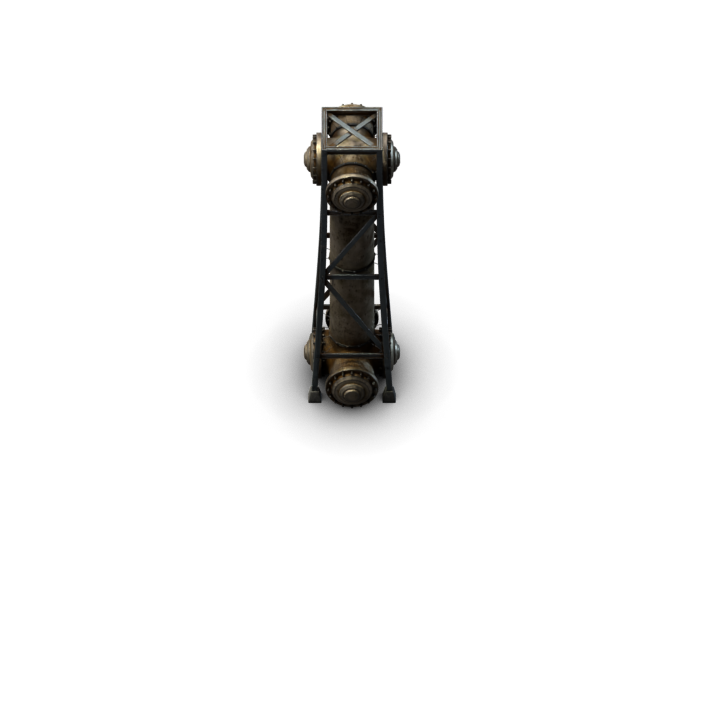
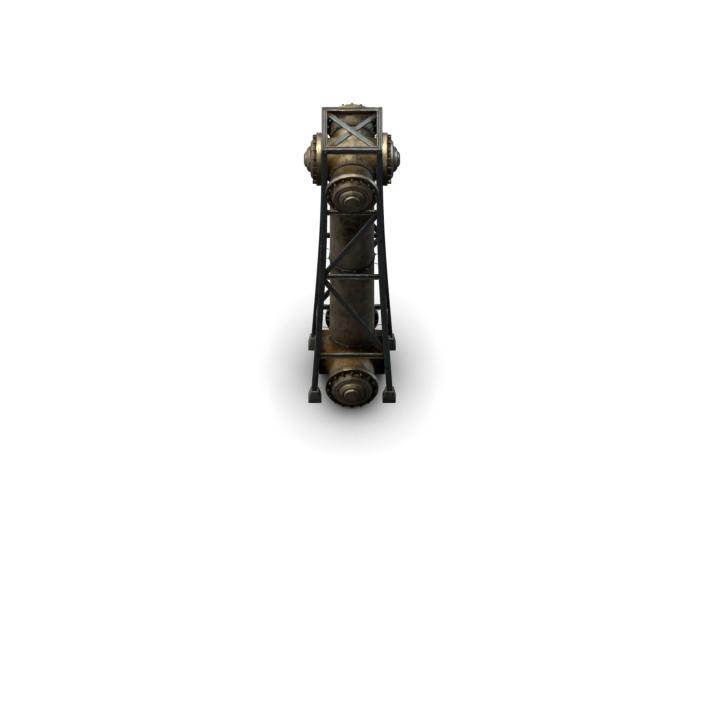
Fix shadow fattening

Changed region(s): [[0.4062, 0.4688, 0.5938, 0.5938], [0.4688, 0.1875, 0.5625, 0.2812]]

diff --git a/mods_2.0/089_pipe-pillars/import_render.php b/mods_2.0/089_pipe-pillars/import_render.php
@@ -13,7 +13,8 @@ $mapping = [
   '0001' => 'pipe-pillar',
   '0002' => 'pipe-pillar-occluder-bottom',
   '0003' => 'pipe-pillar-occluder-top',
-  '0004' => 'pipe-pillar-elevated-vertical-bottom',
+  '0004' => 'pipe-pillar-pipe-covers',
+  // '0004' => 'pipe-pillar-elevated-vertical-bottom',
   '0005' => 'pipe-pillar-elevated-horizontal-left',
   '0006' => 'pipe-pillar-elevated-vertical-top',
   '0007' => 'pipe-pillar-elevated-horizontal-right',
@@ -31,7 +32,7 @@ foreach($mapping as $numbered => $named)
     copy("{$Shadow}/{$numbered}.png", "{$pipe_pillar}/{$named}-shadow.png");
 }
 
-// magick composite pipe-pillar-pipe-connection.png pipe-pillar.png -compose Difference difference.png
+// magick composite pipe-pillar.png pipe-pillar-pipe-connection.png -compose Difference difference.png
 
 // magick \
 //   pipe-pillar-pipe-connection.png -alpha extract pipe-connection-alpha.png
